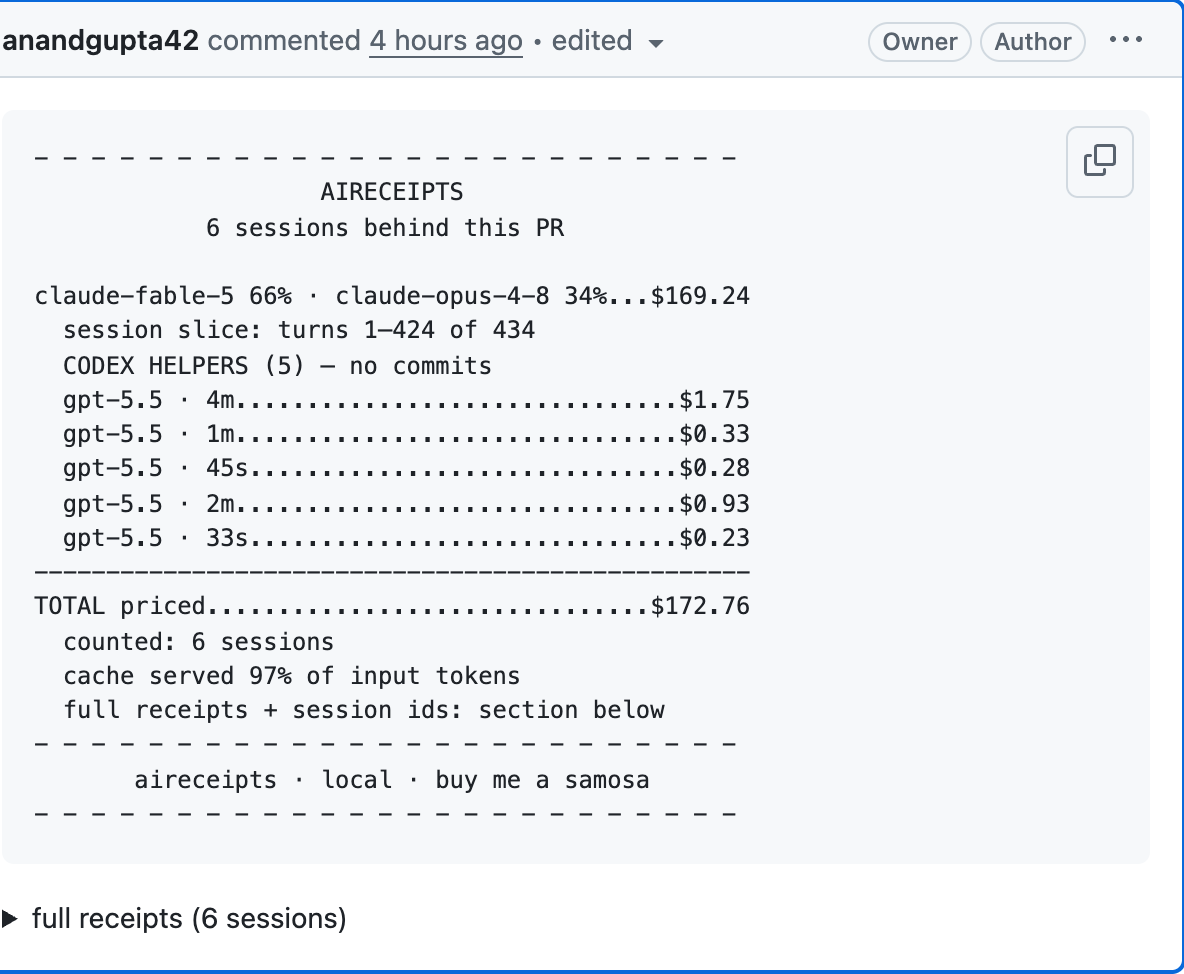
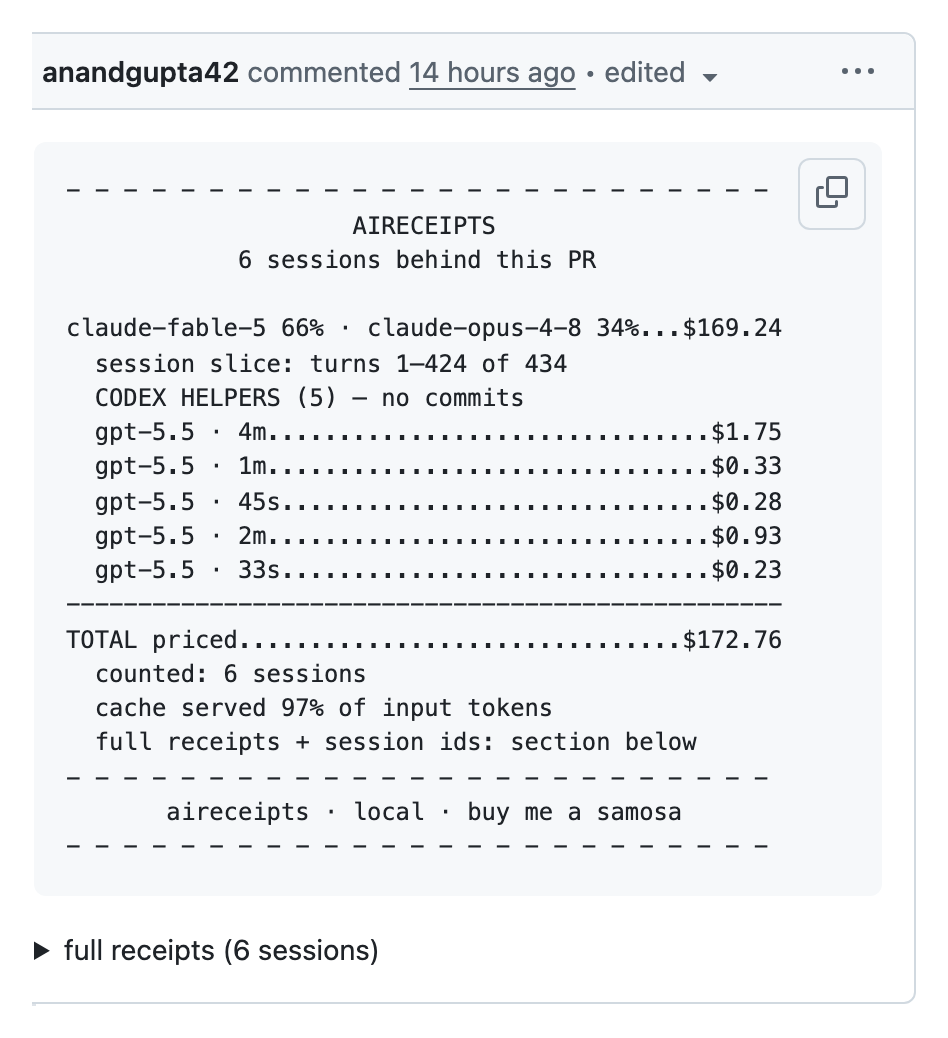
docs: README trim — one receipt per format, dedupe, retaken hero PNG
- cut `README.md` from 204 to 164 lines: dropped the `demo.gif` showing,
  merged the duplicate intro bullets into `The honesty rules`, folded
  `What you get` into the intro, merged Versioning & Contributing
- moved the golden `--svg` `<picture>` below the Usage table, reframed as
  the `--svg` export so the same receipt no longer renders three times in
  one screen (SPEC-0029 R2 still satisfied; fenced receipt byte-unchanged)
- kept a one-line `ccusage` pointer in Docs in place of the Related work
  section
- retook `docs/assets/pr-receipt-comment.png`: no anchor-highlight outline
  clipping, even padding, no dead right gutter, full card border, 2x
- gates: `readme-guard` 11/11, trust/faq/preflight/agent-pages suites, and
  `scripts/hygiene.mjs` all green

diff --git a/README.md b/README.md
@@ -10,10 +10,12 @@
 [![CI](https://github.com/anandgupta42/receipts/actions/workflows/ci.yml/badge.svg)](https://github.com/anandgupta42/receipts/actions/workflows/ci.yml) [![npm](https://img.shields.io/npm/v/aireceipts-cli.svg)](https://www.npmjs.com/package/aireceipts-cli) [![OpenSSF Scorecard](https://api.scorecard.dev/projects/github.com/anandgupta42/receipts/badge)](https://scorecard.dev/viewer/?uri=github.com/anandgupta42/receipts) [![License: Apache-2.0](https://img.shields.io/badge/license-Apache--2.0-blue.svg)](LICENSE)
 
 <a href="https://github.com/anandgupta42/receipts/pull/131#issuecomment-4886722030">
-  <img alt="a real aireceipts receipt comment on a merged pull request of this repo: 6 sessions, two Claude models and five Codex helpers, $172.76 total" src="docs/assets/pr-receipt-comment.png" width="560">
+  <img alt="a real aireceipts receipt comment on a merged pull request of this repo: 6 sessions, two Claude models and five Codex helpers, $172.76 total" src="docs/assets/pr-receipt-comment.png" width="480">
 </a>
 
-<sub>not a mockup — a receipt comment on a merged PR of this repo, posted by <code>aireceipts pr --post</code>. <a href="https://github.com/anandgupta42/receipts/pull/131#issuecomment-4886722030">Read it live.</a></sub>
+<sub>not a mockup — a receipt comment on a merged PR of this repo, posted by
+<code>aireceipts pr --post</code>: 6 sessions, two Claude models, five Codex helpers,
+$172.76. <a href="https://github.com/anandgupta42/receipts/pull/131#issuecomment-4886722030">Read it live.</a></sub>
 
 </div>
 
@@ -21,17 +23,10 @@
 never the bill. aireceipts reads the transcripts your agent already writes to disk and
 turns them into receipts: what a session cost, tool by tool; what a PR cost, across
 every supported agent session it can attribute; where tokens were wasted. This repo
-runs on it: every pull request here carries the receipt of the agent sessions that
-built it — the comment above is one ([how](docs/pr-receipts.md)).
-
-- **Local. No accounts, no servers.** Your transcripts and code never leave your
-  machine; rendering a receipt makes zero network calls.
-- **Never a fabricated dollar.** A `$` renders only from a cited, dated price row;
-  unknown models show tokens, never guesses.
-- **Deterministic.** Same transcript in, byte-identical receipt out — golden-tested
-  on every commit ([what a receipt proves](docs/trust.md)).
-- **Telemetry disclosed and killable.** Anonymous, content-free diagnostics, on by
-  default and opt-out ([docs/telemetry.md](docs/telemetry.md)).
+runs on it — every pull request here carries the receipt of the agent sessions that
+built it ([how](docs/pr-receipts.md)). Local, with no accounts and no servers: your
+transcripts and code never leave your machine, and rendering a receipt makes zero
+network calls.
 
 ## Install — four steps, first receipt in under a minute
 
@@ -43,17 +38,11 @@ built it — the comment above is one ([how](docs/pr-receipts.md)).
    ([guide](docs/guide/01-getting-started.md)).
 3. **Make it always-on.** `aireceipts install-hook` ends every Claude Code session
    with a mini-receipt; `aireceipts statusline` puts the live cost in the status bar.
-4. **Put receipts on your PRs.** `aireceipts pr --post` posts the receipt — the
-   same comment shown above. Generation stays local; a drop-in
-   [CI check](docs/adopt/pr-receipt-check-caller.yml) can then verify every PR
-   carries one ([guide](docs/pr-receipts.md)).
+4. **Put receipts on your PRs.** `aireceipts pr --post` posts the comment shown above.
+   Generation stays local; a drop-in [CI check](docs/adopt/pr-receipt-check-caller.yml)
+   can then verify every PR carries one ([guide](docs/pr-receipts.md)).
 
 Prefer a global install: `npm i -g aireceipts-cli`, then the command is `aireceipts`.
-
-<img alt="aireceipts --demo rendering a sample receipt in a terminal" src="site/assets/demo.gif" width="620">
-
-<sub>`aireceipts --demo` — the bundled sample session; recorded by
-[`site/assets/demo.tape`](site/assets/demo.tape)</sub>
 
 What you get back, as the bytes your terminal prints:
 
@@ -79,6 +68,24 @@ same tokens on claude-haiku-4-5...$0.04 (78% less)
 - - - - - - - - - - - - - - - - - - - - - - - - -
 ```
 
+<sub>the same receipt renders as a shareable SVG (`--svg`, light and dark themes),
+versioned JSON (`--json`), or CSV (`--csv`).</sub>
+
+## Usage
+
+| Command | What it does |
+|---|---|
+| `aireceipts` | Receipt for the newest session (`--list` to pick another) |
+| `aireceipts pr --post [--artifact]` | Attach the receipt of the sessions behind a PR as a comment; `--artifact` also publishes a durable receipt page — [guide](docs/pr-receipts.md) |
+| `aireceipts compare <a> <b>` | Two sessions side by side — models, tools, waste, ratio — [guide](docs/guide/05-compare.md) |
+| `aireceipts week` | Trailing-7-day digest: totals, per-agent split, top waste — [guide](docs/guide/06-week.md) |
+| `aireceipts integrations [target]` | Exact local snippets for Claude Code, Codex, opencode, Cursor, and GitHub — [guide](docs/guide/15-integrations.md) |
+| `aireceipts --handoff` | Paste-ready block that tells your *agent* what to do cheaper next time — [guide](docs/guide/09-handoff.md) |
+| `aireceipts install-hook` | Consent-gated Claude Code hook: every session ends with a mini-receipt — [guide](docs/guide/03-install-hook.md) |
+| `aireceipts statusline` | Live cost line in Claude Code's status bar — [setup](docs/statusline.md) |
+| `aireceipts --quota` / `--check-budget` | Official rate-limit window state (subscribers); exit 1 when your local budget cap is exceeded |
+| `aireceipts --json` / `--csv` / `--svg` | Versioned schema, RFC 4180 rows, shareable image — [schema](docs/json-schema.md) |
+
 <div align="center">
 
 <picture>
@@ -86,41 +93,9 @@ same tokens on claude-haiku-4-5...$0.04 (78% less)
   <img alt="the same receipt rendered as a shareable SVG, light and dark themes" src="goldens/svg/claude-code-clean-multi-tool-2-models-light.svg" width="520">
 </picture>
 
-<sub>the same receipt as <code>--svg</code> renders it — byte-pinned to this repo's golden tests</sub>
+<sub><code>--svg</code> — the receipt shown above, as the shareable image it exports; byte-pinned to this repo's golden tests</sub>
 
 </div>
-
-## Usage
-
-| Command | What it does |
-|---|---|
-| `aireceipts` | Receipt for the newest session (`--list` to pick another) |
-| `aireceipts --demo` | See a sample receipt with no sessions of your own — a bundled example, rendered live |
-| `aireceipts setup` | First-run report: found sessions, latest cost, week total, integration options — [guide](docs/guide/01-getting-started.md) |
-| `aireceipts integrations [target]` | Exact local snippets for Claude Code, Codex, opencode, Cursor, and GitHub — [guide](docs/guide/15-integrations.md) |
-| `aireceipts pr --post` | Attach the receipt of the sessions behind a PR as a comment — [guide](docs/pr-receipts.md) |
-| `aireceipts pr --post --artifact` | Also publish a durable receipt page, linked from the comment — [how](docs/pr-receipts.md) |
-| `aireceipts compare <a> <b>` | Two sessions side by side — models, tools, waste, ratio — [guide](docs/guide/05-compare.md) |
-| `aireceipts week` | Trailing-7-day digest: totals, per-agent split, top waste — [guide](docs/guide/06-week.md) |
-| `aireceipts --svg -o r.svg` | The receipt as a shareable image, light/dark themes |
-| `aireceipts --handoff` | Paste-ready block that tells your *agent* what to do cheaper next time — [guide](docs/guide/09-handoff.md) |
-| `aireceipts install-hook` | Consent-gated Claude Code hook: every session ends with a mini-receipt — [guide](docs/guide/03-install-hook.md) |
-| `aireceipts statusline` | Live cost line in Claude Code's status bar — [setup](docs/statusline.md) |
-| `aireceipts --quota` | Your official rate-limit window state (subscribers) |
-| `aireceipts --check-budget` | Exit 1 when your local budget cap is exceeded — advisory, composable |
-| `aireceipts --json` / `--csv` | Versioned schema / RFC 4180 rows — [schema](docs/json-schema.md) |
-
-## What you get
-
-- **PR receipts**: every pull request can carry the receipt of the agent sessions that
-  built it — totals across leads, builders, and helpers, floors when anything is
-  unattributed.
-- **A per-tool cost anatomy** of every session: models, cache tiers, tool-by-tool spend.
-- **Waste lines, precision-gated**: stuck tool loops and trivial spans a cheaper model
-  could run — each priced, each conservative (a false positive fails our CI).
-- **An honest cheaper-model line**: "same tokens on X" is arithmetic on your real token
-  counts, never a claim that X would have done the job.
-- **Exports**: SVG/PNG images, JSON with a versioned schema, CSV.
 
 ## The honesty rules
 
@@ -146,58 +121,43 @@ Full methodology: `aireceipts --methodology`.
 | [Claude Code](docs/agents/claude-code.md) | Full: per-turn models, tools, cache tiers |
 | [Codex CLI](docs/agents/codex.md) | Full per-turn parsing |
 | [Gemini CLI](docs/agents/gemini.md) | Full: per-turn models, tools, cache tokens |
+| [opencode](docs/agents/opencode.md) | Full: per-message models, tools, cache read/write; unknown models stay tokens-only |
 | [Cursor](docs/agents/cursor.md) | Honest degraded mode: session totals only (its logs carry no per-turn usage) |
-| [opencode](docs/agents/opencode.md) | Full: per-message models, tools, cache read/write; multi-provider pricing resolves per turn from the model id, and unknown models stay tokens-only |
 
 Model prices move. A daily advisory tripwire cross-checks `data/prices/` against an
 independent dataset and opens an issue when they disagree; every table change lands
-as a cited price-table PR — watch or star the repo to catch price updates and new
-releases.
+as a cited price-table PR.
 
 ## Telemetry, disclosed
 
-Anonymous diagnostics and usage signals — error classes, duration buckets, parse-failure signatures, feature enums, and coarse buckets.
-Never code, prompts, paths, titles, or dollar amounts. See exactly what a run would
-send: `aireceipts --telemetry-show`. Kill it: `AIRECEIPTS_TELEMETRY=off` or
+Anonymous diagnostics and usage signals — error classes, duration buckets,
+parse-failure signatures, feature enums, and coarse buckets. Never code, prompts,
+paths, titles, or dollar amounts. See exactly what a run would send:
+`aireceipts --telemetry-show`. Kill it: `AIRECEIPTS_TELEMETRY=off` or
 `DO_NOT_TRACK=1`. Schema and rationale: [docs/telemetry.md](docs/telemetry.md).
 
 ## Docs
 
 **[User guide](docs/guide/01-getting-started.md)** — get started, every command,
 pricing, troubleshooting ([hosted docs](https://anandgupta42.github.io/receipts/docs/) ·
-[site](https://anandgupta42.github.io/receipts/)).
+[site](https://anandgupta42.github.io/receipts/)). Also: [FAQ](docs/faq.md) ·
+[What a receipt proves](docs/trust.md) · [PR receipts](docs/pr-receipts.md) ·
+[JSON schema](docs/json-schema.md) · [statusline](docs/statusline.md).
 
-[FAQ](docs/faq.md) · [What a receipt proves](docs/trust.md) ·
-[PR receipts](docs/pr-receipts.md) · [Integrations](docs/guide/15-integrations.md) ·
-[JSON schema](docs/json-schema.md) · [statusline](docs/statusline.md) ·
-[telemetry](docs/telemetry.md)
+Looking for daily/weekly usage dashboards across agents?
+[ccusage](https://github.com/ryoppippi/ccusage) is the standard — aireceipts answers
+a different question: what a specific session or PR cost, with every number traceable.
 
-**Related work.** [claude-receipts](https://github.com/chrishutchinson/claude-receipts)
-prints a beautiful thermal-receipt souvenir of a Claude Code session (numbers via
-[ccusage](https://github.com/ryoppippi/ccusage)); [Infracost](https://github.com/infracost/infracost)
-does cost-as-a-PR-comment for Terraform. aireceipts is the bookkeeping sibling:
-multi-agent parsing, cited prices, and PR-level attribution with an honesty model.
-[ccusage](https://github.com/ryoppippi/ccusage) is the standard for daily and weekly
-usage dashboards across coding agents; aireceipts answers a different question — what
-a specific session or PR cost, with every number traceable.
+## Versioning & contributing
 
-## Versioning & stability
-
-Pre-1.0 (`0.x`): **minor** versions may change behavior or output, **patch**
-versions are fixes only. The receipt's byte-stability contract (I5) is the
-compatibility surface — a change that breaks byte-stability for existing golden
-receipts is a **major** bump, and won't happen inside `0.x` minors without a
-changelog callout. Every release is tagged, with notes on the
-[Releases page](https://github.com/anandgupta42/receipts/releases) and in
-[the changelog](docs/CHANGELOG.md).
-
-## Contributing
-
-aireceipts is designed and largely built by AI agents under a spec-driven harness —
-adversarially validated specs, mutation-tested money paths, byte-golden outputs, and
-PRs that carry the receipt of the session that built them
-([how and why](docs/internal/harness.md)). Human PRs are welcome and run the same
-gates: see [CONTRIBUTING.md](CONTRIBUTING.md).
+Pre-1.0 (`0.x`): **minor** versions may change behavior or output, **patch** versions
+are fixes only. The receipt's byte-stability contract is the compatibility surface — a
+change that breaks it is a **major** bump ([changelog](docs/CHANGELOG.md) ·
+[releases](https://github.com/anandgupta42/receipts/releases)). aireceipts is designed
+and largely built by AI agents under a spec-driven harness — adversarially validated
+specs, mutation-tested money paths, byte-golden outputs, and PRs that carry the receipt
+of the session that built them ([how and why](docs/internal/harness.md)). Human PRs are
+welcome and run the same gates: [CONTRIBUTING.md](CONTRIBUTING.md).
 
 ## License
 